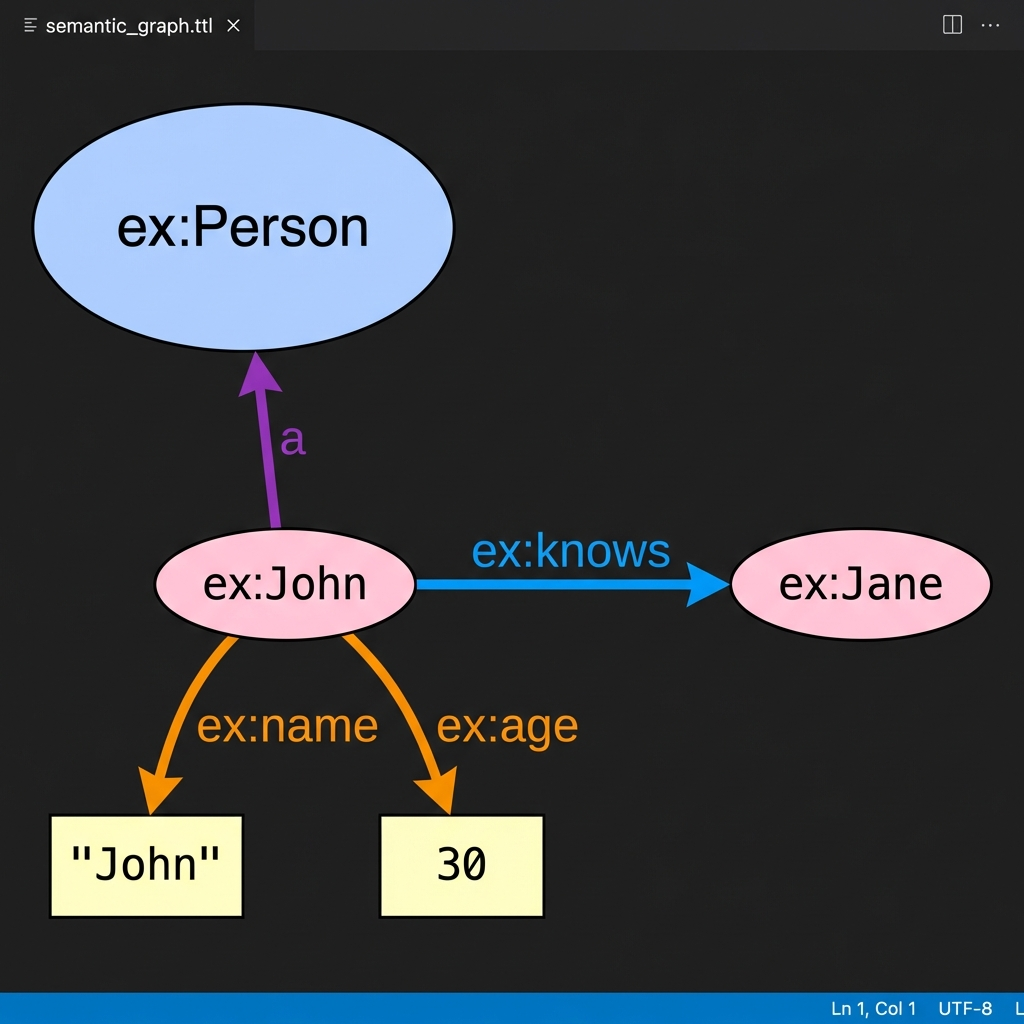
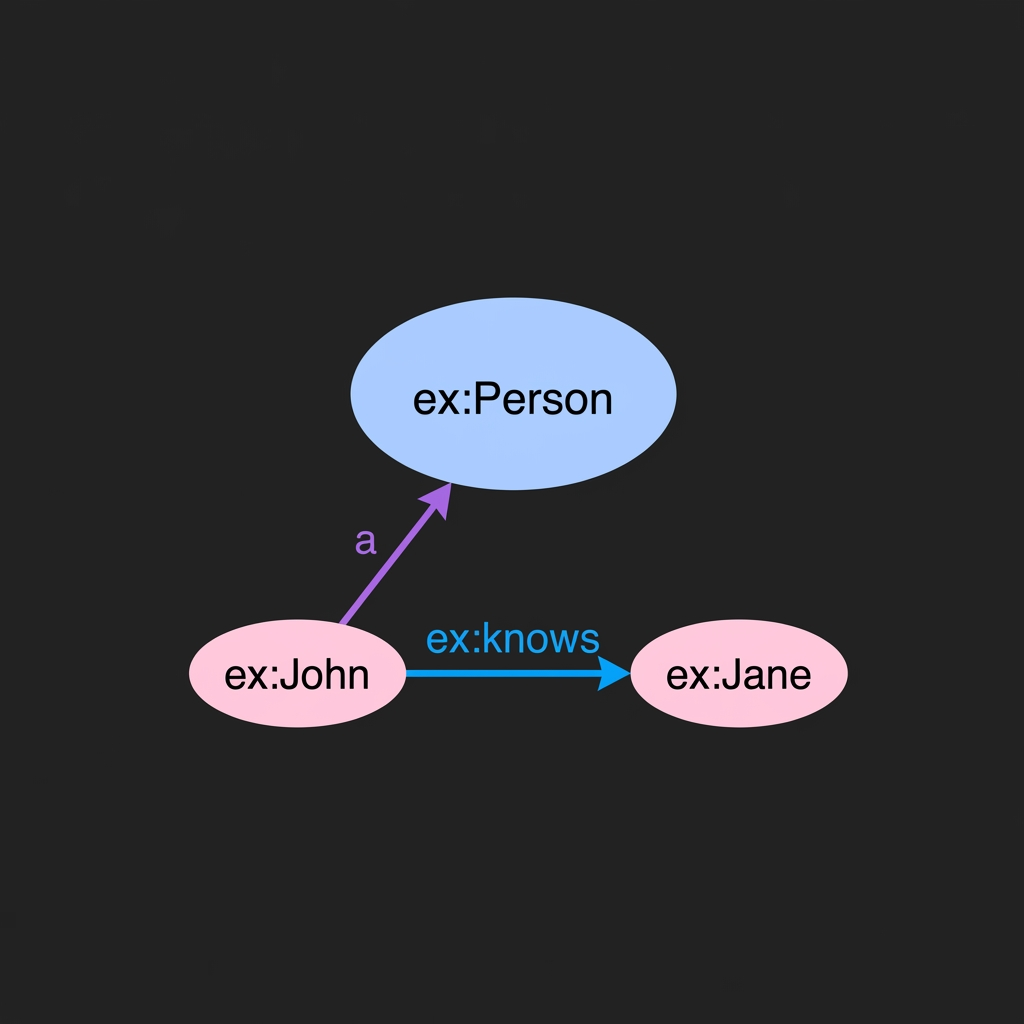
Docs: Update graph example image (compact) and resize in README

Changed region(s): [[0.0312, 0.0938, 0.9688, 0.9062], [0.0, 0.9688, 1.0, 1.0], [0.0312, 0.0, 0.2188, 0.0312]]

diff --git a/README.md b/README.md
@@ -10,7 +10,7 @@ Get rich, semantic syntax highlighting for `turtle` and `n3` code blocks. Distin
 ### 2. Interactive Graph Visualization
 Visualize your RDF data as a force-directed graph. Just use the `preview` modifier in your code block:
 
-![Graph Preview Example](images/graph_example.png)
+<img src="images/graph_example.png" width="600" alt="Graph Preview Example">
 
 ```turtle preview
 @prefix ex: <http://example.org/> .
